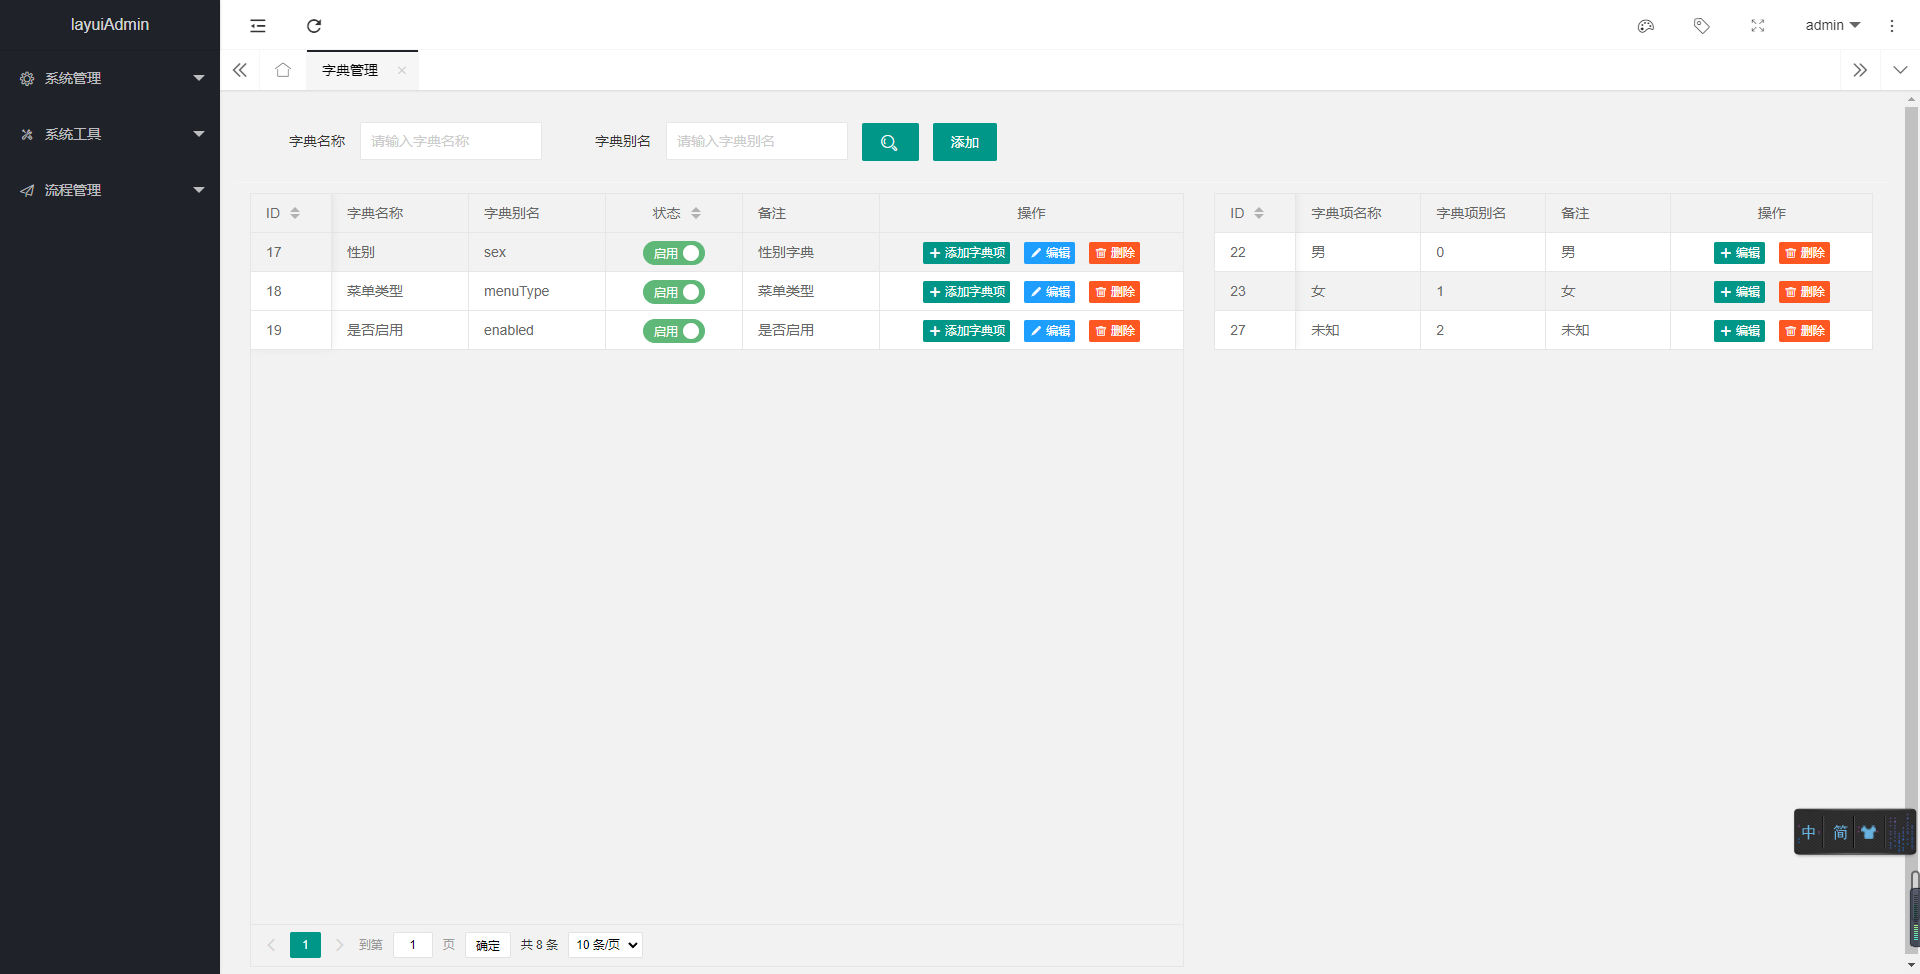
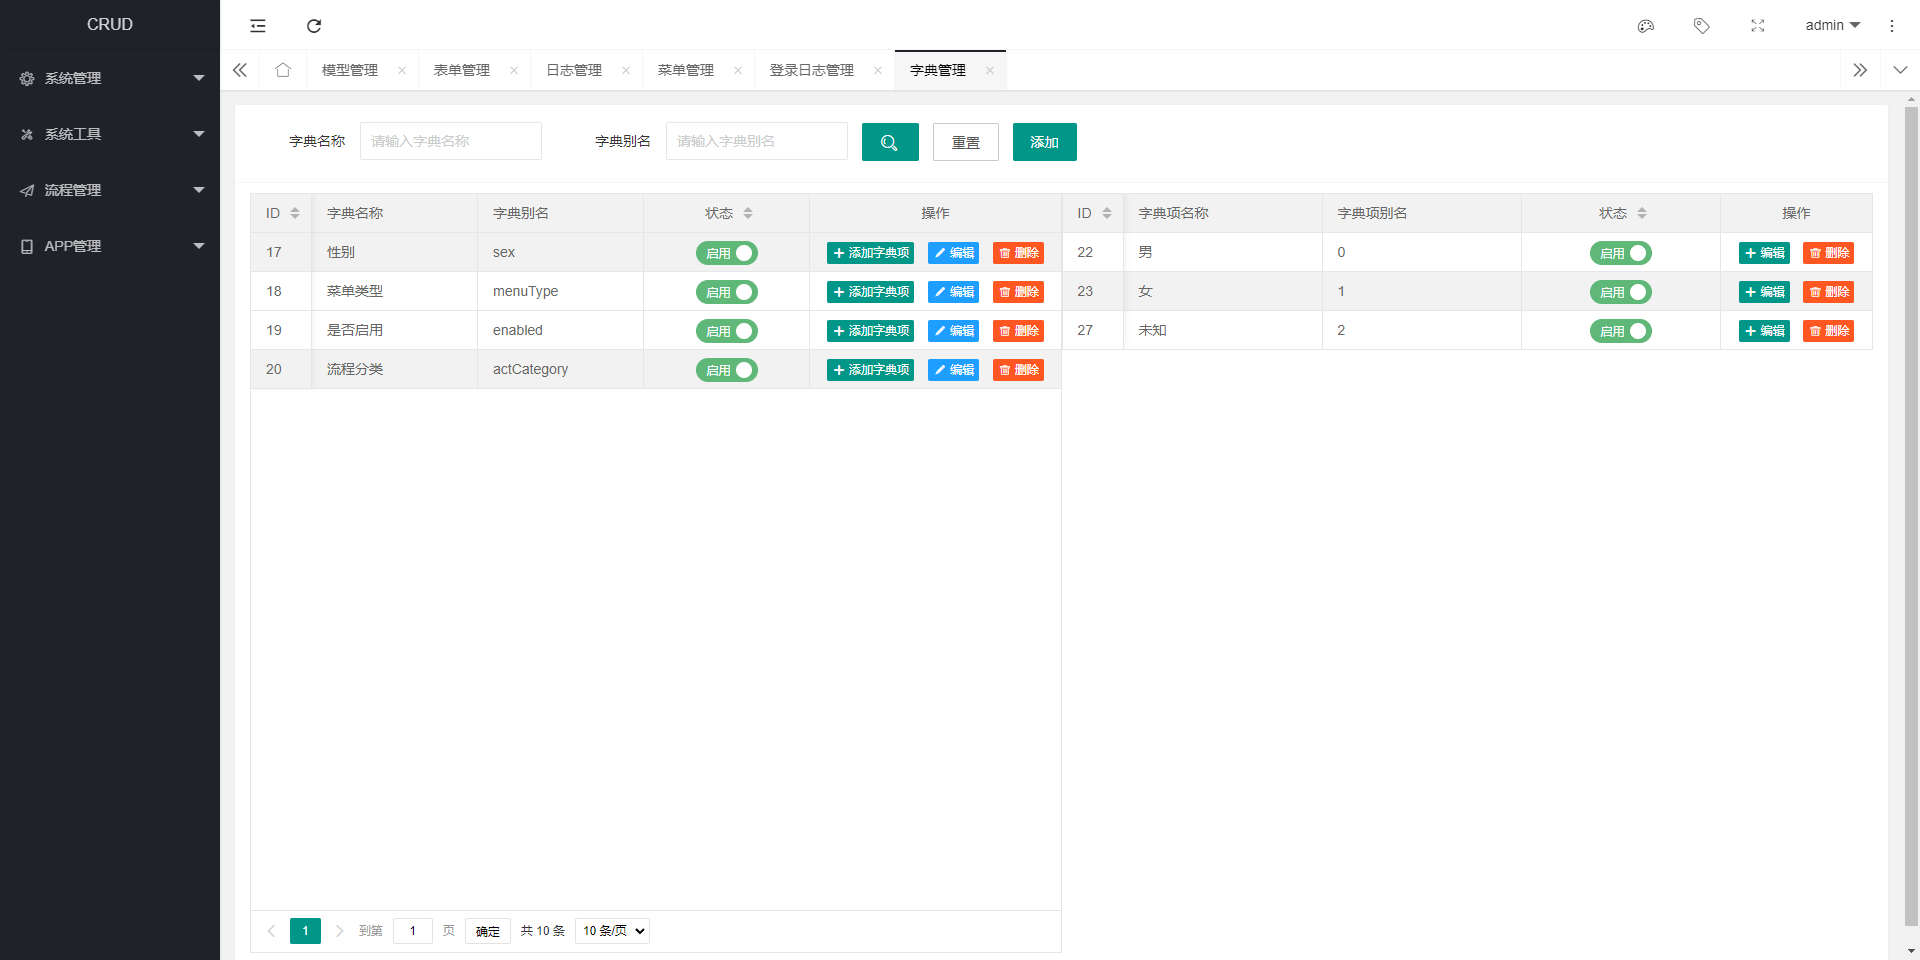
描述

diff --git a/README.md b/README.md
@@ -40,38 +40,44 @@
     
     2.定义接口版本，在方法中配置@ApiVersion注解
     
-    3.跳过jwt安全认证只需要加入@PassToken注解
+    3.想要实现客户端不需要登录就可以访问后端接口，只需要在控制层的JAVA方法中加入@PassToken注解，然后该接口可以跳过jwt安全认证
     
-    4.使用@CrudLog注解可以将系统错误日志记录到数据库
-    
-    5.security菜单、按钮权限
+    4.在JAVA方法中加入@CrudLog注解可以将用户操作后台管理系统中操作日志记录到数据库sys_log日志表中
 ```
-@PreAuthorize("hasAuthority('权限标识')") // java代码
+// BusinessType.INSERT 新增操作
+// BusinessType.UPDATE 更新操作
+// BusinessType.DELETE 删除操作
+@CrudLog(title = "详细描述",businessType = BusinessType.INSERT) 
+```
+
+    5.代码中设置Security权限
+```
+@PreAuthorize("hasAuthority('权限标识')") // JAVA代码方法上加入注解
 sec:authorize="hasAuthority('权限标识')" // thymeleaf声明
 ```
     
-    6.获取header传入的token中userId
+    6.客户端向header处放入token值后发起请求，后端拦截客户端请求，获取并解析header中token，拿到用户的userId放入Map中，然后通过以下方法可以获取用户ID。
 ```
  Long userId = ApiContext.getUserId();
 ```
-    7.list转化tree结构
+    7.将list转化tree结构方法
 ```
  ListToTree treeBuilder = new ListToTreeImpl();
  treeBuilder.toTree(menus);
 ```
-    8.发送验证码
+    8.调用发送阿里云Email邮件方法
 ```
  SampleEmail.sample(邮件地址,标题,内容);
 ```
-    9.上传文件到oss
+    9.调用上传文件到阿里云oss或minio服务器方法
 ```
  SampleOSS.upload(文件流, 自定义上传路径);
 ```
-    10.发送短信
+    10.调用发送阿里云短信方法
 ```
  SampleSms.sendSms(手机号,模版号,签名); 
 ```   
-    11.字典渲染layui
+    11.前端获取字典值渲染layui表单页面
 ```
    layui.config({
         base: '/static/layuiadmin/' //静态资源所在路径
@@ -119,9 +125,16 @@ sec:authorize="hasAuthority('权限标识')" // thymeleaf声明
     工作流
    ![运行截图](https://gitee.com/yangyouwang/crud/raw/master/img/9.png "9.png")
    ![运行截图](https://gitee.com/yangyouwang/crud/raw/master/img/10.png "10.png")
-   
-    日志管理
+   ![运行截图](https://gitee.com/yangyouwang/crud/raw/master/img/16.png "16.png")
+
+    登录日志管理
    ![运行截图](https://gitee.com/yangyouwang/crud/raw/master/img/11.png "11.png")
-   
+
+    操作日志管理
+   ![运行截图](https://gitee.com/yangyouwang/crud/raw/master/img/15.png "15.png")
+
     字典管理
    ![运行截图](https://gitee.com/yangyouwang/crud/raw/master/img/12.png "12.png")
+
+    代码生成
+   ![运行截图](https://gitee.com/yangyouwang/crud/raw/master/img/17.png "17.png")
